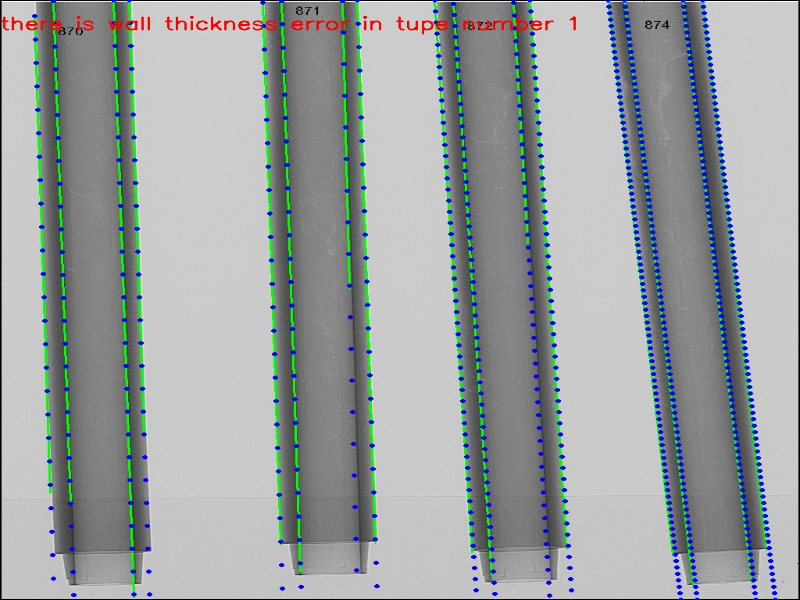
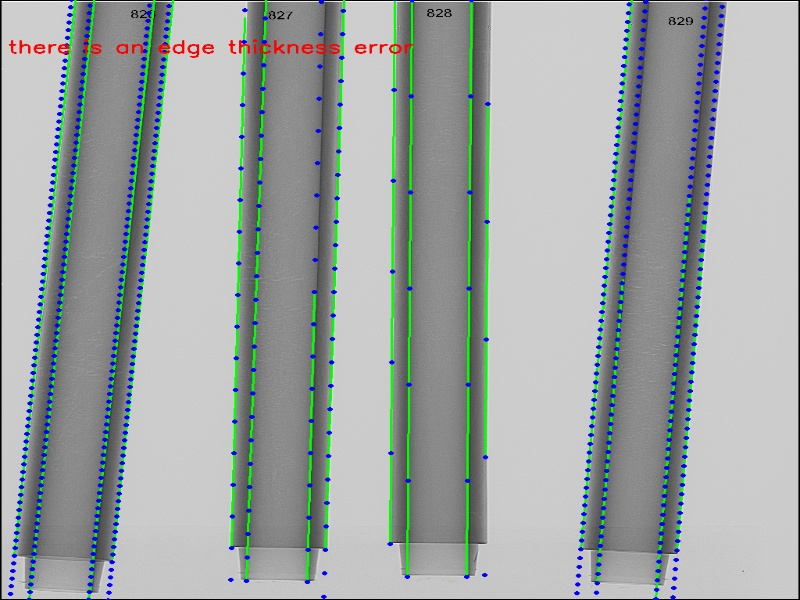
edge thickness is added along single edge

diff --git a/5_power_pipes.py b/5_power_pipes.py
@@ -72,7 +72,7 @@ def filter_with_point(lines, y=200, tx=10):
 
     return np.array(lines)[index_array]
         
-def check_thickness(full_lines, diff_thresh=5, edge_thresh=3):
+def check_thickness(full_lines, diff_thresh=3, edge_thresh=3):
     y1 = 300
     y2 = 500
     y3 = 700
@@ -80,6 +80,7 @@ def check_thickness(full_lines, diff_thresh=5, edge_thresh=3):
 
     selected_coor = []
     check_array = []
+    edges_array = []
     for group in np.array_split(full_lines, len(full_lines) // 4):
         
         for line in group:
@@ -98,23 +99,27 @@ def check_thickness(full_lines, diff_thresh=5, edge_thresh=3):
         print(dist1, dist2)
 
         edge_diff = np.all(np.abs(dist1 - dist2) >= edge_thresh)
-        # right_edge = np.all(dist1 > thresh)
-        # left_edge = np.all(dist2 > thresh)
+        right_edge = np.all(dist1.max() - dist1.min() >= diff_thresh)
+        left_edge = np.all(dist2.max() - dist2.min() >= diff_thresh)
 
+        edges_array.append(right_edge)
+        edges_array.append(left_edge)
         check_array.append(edge_diff)
-    return check_array
+
+    return check_array, edges_array
 
 
 
 results_path = os.path.join(os.getcwd(), 'results')
 test_path = os.path.join(os.getcwd(), 'test')
 
-image = cv2.imread(os.path.join(test_path, 'a.bmp'))
+image = cv2.imread(os.path.join(test_path, 'wt2.bmp'))
 cv2.imshow('original', cv2.resize(image, (800, 600)))
 # cv2.imwrite(os.path.join(results_path, 'original.jpg'), cv2.resize(image, (800, 600)))
 
 lineImage = image.copy()
 clineImage = image.copy()
+result_image = image.copy()
 
 gray = cv2.cvtColor(image, cv2.COLOR_BGR2GRAY)
 edged = cv2.Canny(gray, 50, 255)
@@ -159,14 +164,27 @@ for x1, y1, x2, y2  in filtered_lines:
         for x, y in zip(xs, ys):
             cv2.circle(clineImage, (x,y), 2, (255,0,0), 2)
 
-try:
-    wt_pos = check_thickness(filtered_lines, 5).index(True) + 1
-    cv2.putText(clineImage, f'there is wall thickness error in tupe number {wt_pos}', (0,50), cv2.FONT_HERSHEY_SIMPLEX , 1, (0,0,255), 2)
-except ValueError:
+error_list = []
+ct, ce = check_thickness(filtered_lines, 1, 3)
+print(ct, ce)
+for i, c in enumerate(ct):
+    if c:
+        error_list.append(i + 1)
+
+if len(error_list):
+    cv2.putText(clineImage, f'there is a wall thickness error in tupe number {error_list}', (10,50), cv2.FONT_HERSHEY_SIMPLEX , 1, (0,0,255), 2)
+    cv2.putText(result_image, f'there is a wall thickness error in tupe number {error_list}', (10,50), cv2.FONT_HERSHEY_SIMPLEX , 1, (0,0,255), 2)
+if  not np.all(ce):
+    cv2.putText(clineImage, 'there is an edge thickness error', (10,90), cv2.FONT_HERSHEY_SIMPLEX , 1, (0,0,255), 2)
+    cv2.putText(result_image, 'there is an edge thickness error', (10,90), cv2.FONT_HERSHEY_SIMPLEX , 1, (0,0,255), 2)
+else:
     cv2.putText(clineImage, 'No wall thickness error detected', (0,50), cv2.FONT_HERSHEY_SIMPLEX , 1, (0,0,255), 2)
+    cv2.putText(result_image, 'No wall thickness error detected', (0,50), cv2.FONT_HERSHEY_SIMPLEX , 1, (0,0,255), 2)
 
 cv2.imshow('res filtered', cv2.resize(clineImage, (800, 600)))
+cv2.imshow('Final Result', cv2.resize(result_image, (800, 600)))
 cv2.imwrite(os.path.join(results_path, 'wall_thickness 2.jpg'), cv2.resize(clineImage, (800, 600)))
+cv2.imwrite(os.path.join(results_path, 'final result.jpg'), cv2.resize(result_image, (800, 600)))
 
 # print(check_thickness(filtered_lines, 5).index(True))
 # cv2.imwrite(os.path.join(results_path, 'res filtered.jpg'), cv2.resize(clineImage, (800, 600)))
